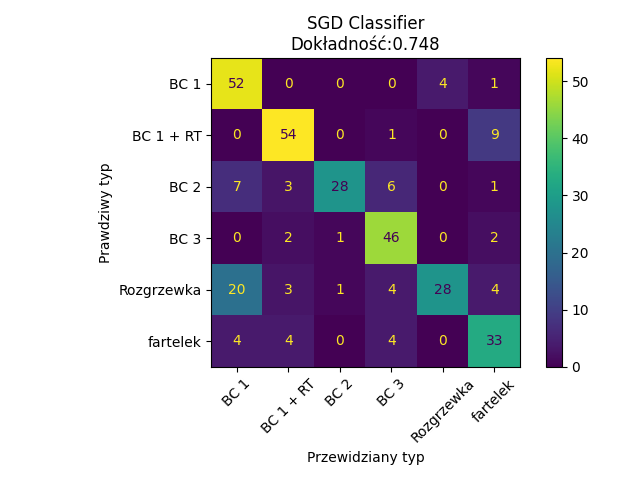
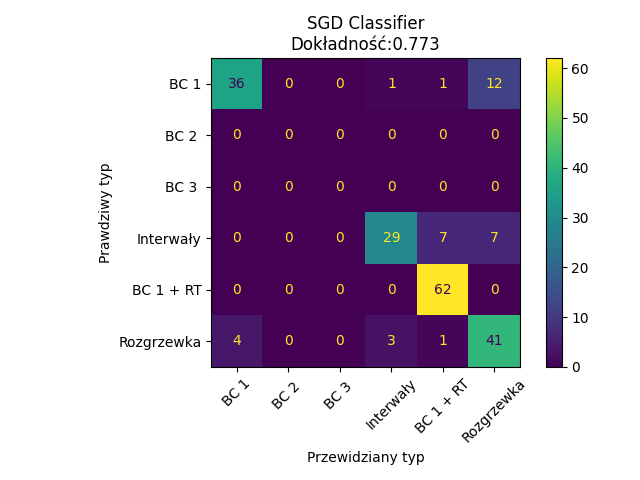
matrix normalized

diff --git a/garmin_spider/ml/predict_trening_type.py b/garmin_spider/ml/predict_trening_type.py
@@ -17,9 +17,11 @@ from sklearn.linear_model import LogisticRegression
 from imblearn.pipeline import Pipeline
 from imblearn.under_sampling import RandomUnderSampler
 from sklearn.metrics import plot_confusion_matrix
+from sklearn.metrics import average_precision_score
+from sklearn.metrics import confusion_matrix
 from sklearn import tree
 from collections.abc import Iterable
-
+from sklearn.metrics import precision_recall_fscore_support
 
 from os import path
 from sklearn import metrics
@@ -38,7 +40,7 @@ training_types = {
 
 classifiers = {
     "SGD Classifier": SGDClassifier(),
-    'Logistic Regression:': LogisticRegression(random_state=0, max_iter=1000),
+    'Logistic Regression': LogisticRegression(random_state=0, max_iter=1000),
     "Decision Tree Classifier": DecisionTreeClassifier(max_depth=5),
     "Random Forest Classifier": RandomForestClassifier(max_depth=5, n_estimators=10, max_features=1),
     "Linear SVM": SVC(kernel="linear", C=0.025),
@@ -101,21 +103,23 @@ def plot_confucion_matrix(y_test, predictions, score, path_to_save, name):
 
 def plot_matrix(clf, X_test, y_test, save_path, name):
     predictions, accurancy = get_accurancy(clf_over, X_test, y_test)
-    plot_confusion_matrix(clf, X_test, y_test)
+    labels = ['BC 1', 'BC 2', 'BC 3', 'Interwały', 'BC 1 + RT', 'Rozgrzewka']
+
+    plot_confusion_matrix(clf, X_test, y_test, normalize='true')
     plt.title(name + "\nDokładność:{:.3f}".format(accurancy))
     plt.ylabel('Prawdziwy typ');
     plt.xticks(rotation=45)
     plt.xlabel('Przewidziany typ');
     plt.tight_layout()
     plt.savefig(save_path)
-
+    #plt.show()
 
 def change_labels(y):
     training_types_labels = {
         '0': 'BC 1',
         '1': 'BC 2',
         '2': 'BC 3',
-        '3': 'fartelek',
+        '3': 'Interwały',
         '5': 'BC 1 + RT',
         '6': 'Rozgrzewka',  #
         '7': 'RT',
@@ -123,13 +127,15 @@ def change_labels(y):
         'BC 1':'BC 1',
         'BC 2':'BC 2',
         'BC 3':'BC 3',
-        'fartelek':'fartelek',
+        'fartelek':'Interwały',
         'BC 1 + RT':'BC 1 + RT',
         'Rozgrzewka':'Rozgrzewka',  #
         'RT':'RT',
         'Inny':'Inny'
 
     }
+
+
     result = []
     for i, el in enumerate(y):
 
@@ -140,7 +146,7 @@ def change_labels(y):
 
 def tree_ploter(X, y):
     labels_names = ['BC 1', 'BC 2', 'BC 3',
-                    'fartelek', 'BC 1 + RT', 'Rozgrzewka', 'RT',
+                    'Interwały', 'BC 1 + RT', 'Rozgrzewka', 'RT',
                     ]
     features_name = list(pd.read_csv(file, nrows=1).columns)[1:-2]
 
@@ -156,29 +162,33 @@ def prepare_data(file):
     y = change_labels(y)
 
 
-
     return X, y
+    pass
+def precision_recall_fscore_support_extend(y_true, y_pred):
+    labels = list(np.unique(y_true))
+    scores = precision_recall_fscore_support(y_true, y_pred,labels=labels)
+    print(scores)
     pass
 
 
 if __name__ == '__main__':
-    run_classificators = False
+    run_classificators = True
     oversample_data = True
     undersample_data = False
-    plot_tree = True
+    plot_tree = False
     steps = []
     if undersample_data:
         steps.append(('u', RandomUnderSampler(sampling_strategy={0: 100})))
         # better not use :)
     if oversample_data:
-        steps.append(('o', SMOTE(random_state=101, k_neighbors=5)))
+        steps.append(('o', SMOTE(random_state=101, k_neighbors=7)))
 
     file = '/home/zywko/PycharmProjects/BA_Code/resources/garmin_data/summary_labeled_jakob_szymon_improved.csv'
 
 
     X, y = prepare_data(file)
-
     plot_dataset(X, y)
+
 
     pipeline = Pipeline(steps=steps)
     X_over, y_over = pipeline.fit_resample(X, y)
@@ -194,7 +204,7 @@ if __name__ == '__main__':
     df = pd.DataFrame(columns=['Model', 'Accurancy', 'Accurancy over', 'Diffrence', 'Improvment'])
 
     i=0
-    garmin_dir = '/home/zywko/PycharmProjects/BA_Code/resources/garmin_plots/v2'
+    garmin_dir = '/home/zywko/PycharmProjects/BA_Code/resources/garmin_plots/v3'
     if plot_tree:
         tree_ploter(X=X_train_over, y= y_train_over)
 
@@ -208,9 +218,10 @@ if __name__ == '__main__':
 
             plot_matrix(clf_over, X_test_over, y_test_over,
                                   path.join(garmin_dir, name), name)
+
             #plot_matrix(clf, X_test, y_test,
             #           path.join(garmin_dir, name), name)
-
+            #precision_recall_fscore_support_extend(y_test_over, predictions_over)
 
             delta = accurancy_over - accurancy
             df.loc[i] = [name, accurancy, accurancy_over, delta, (delta / accurancy_over) * 100]
